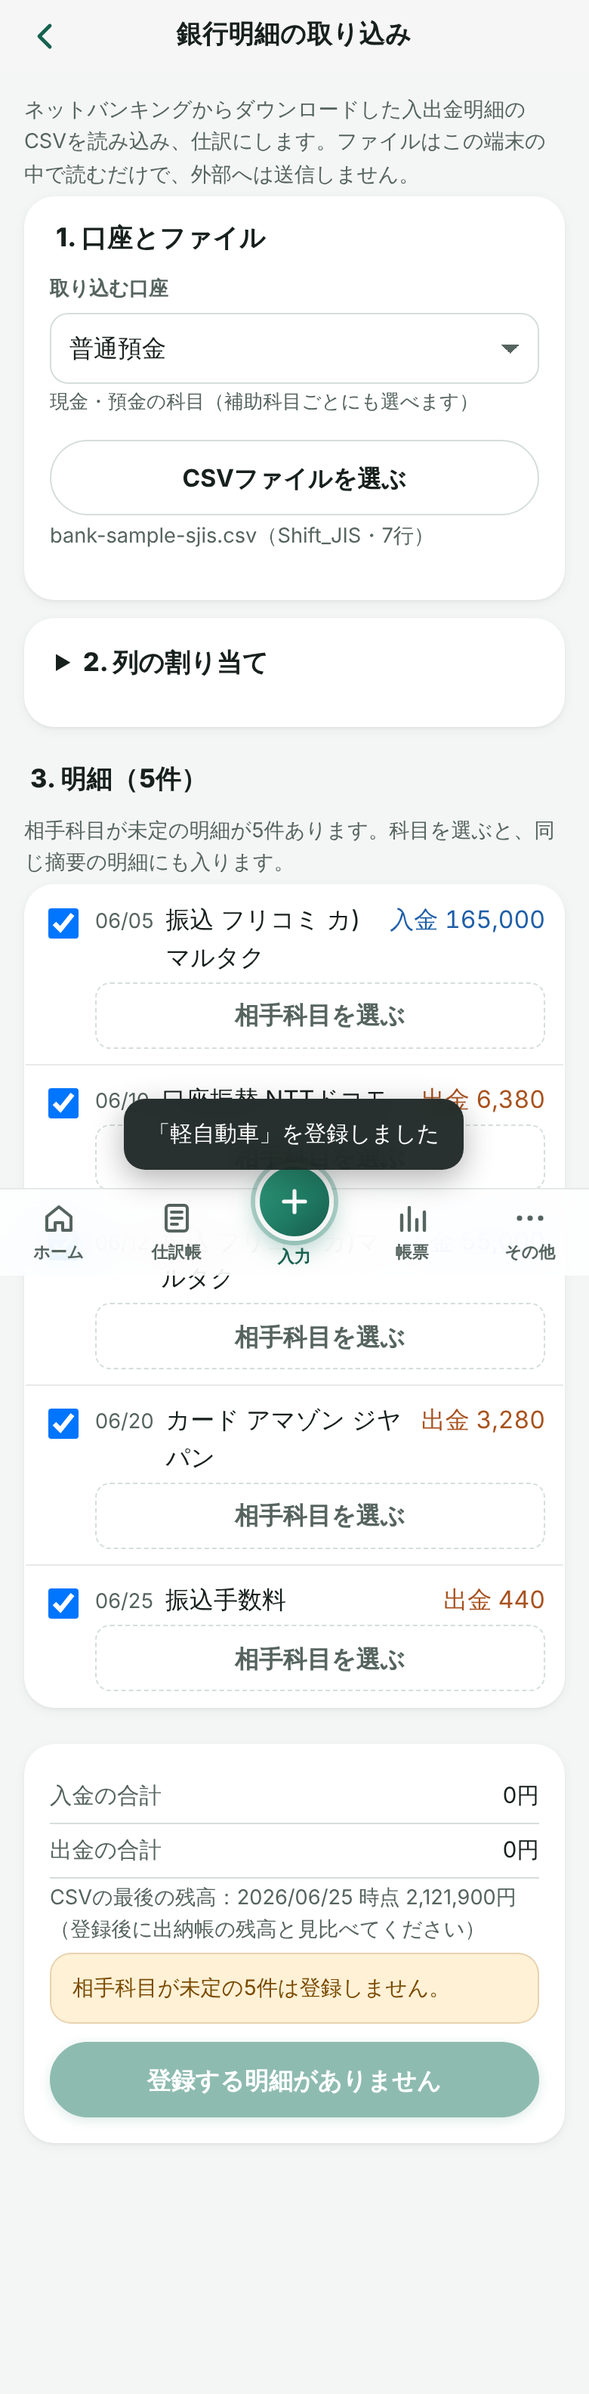
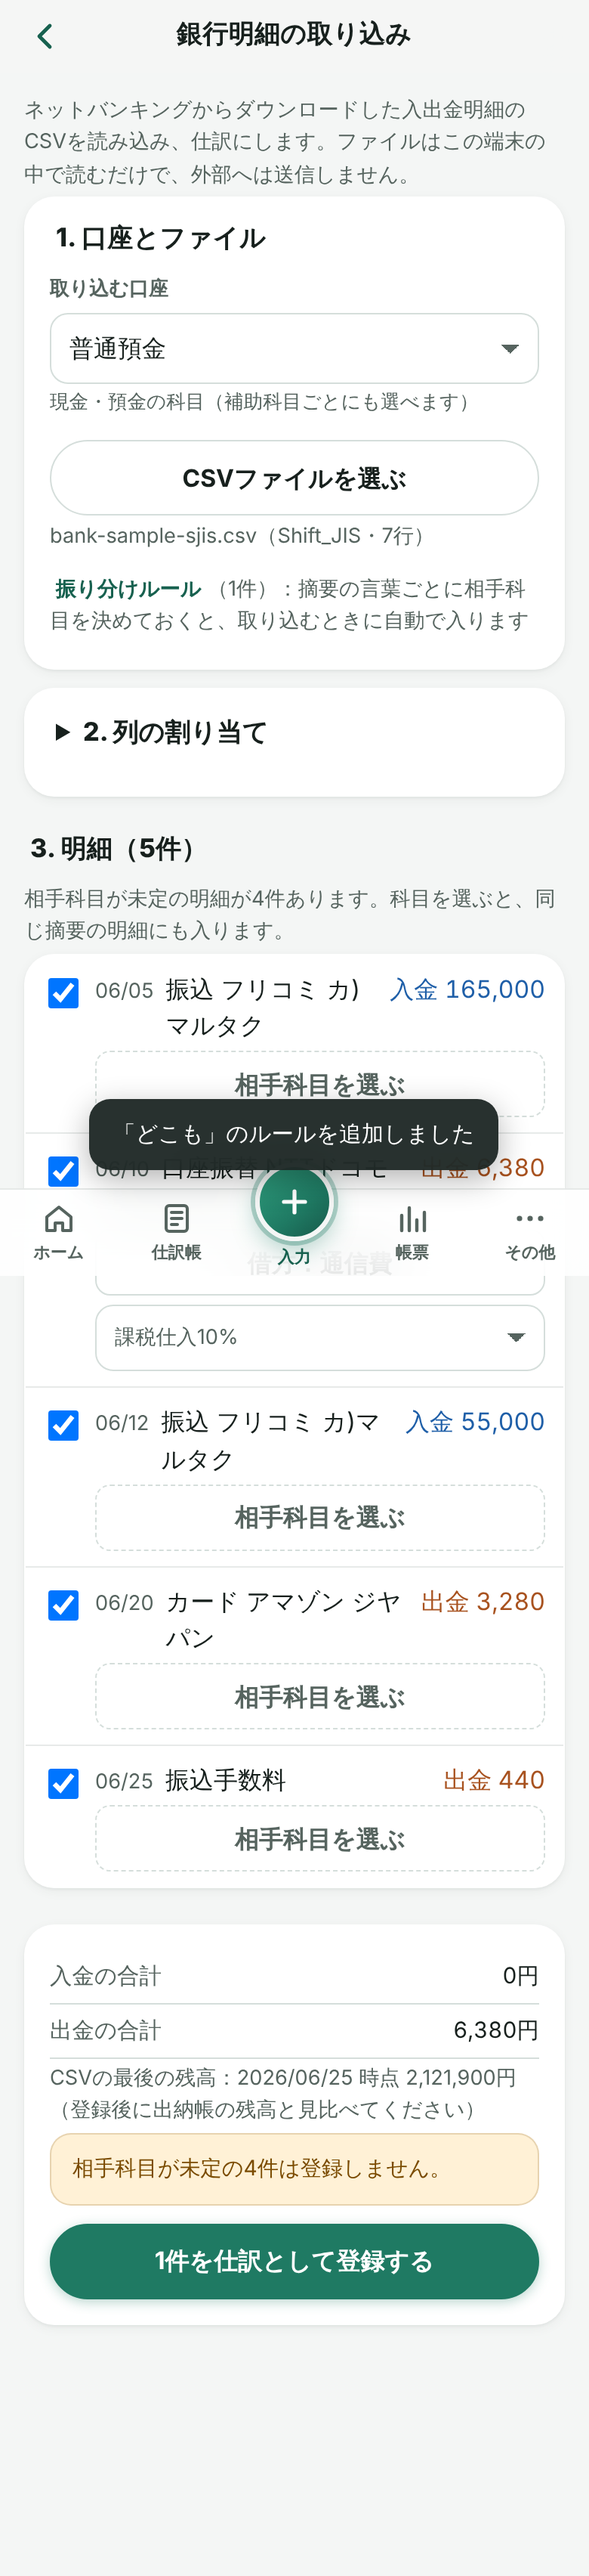
銀行明細の振り分けルールを登録・編集できるようにする
摘要の言葉ごとに相手科目・税区分を決めておき、取り込み時に過去の仕訳より優先して入れる。
設定（bankRules）に保存し、バックアップにも入る。v0.12.0、sw v15。

Claude-Session: https://claude.ai/code/session_01S9p1vVb4QL9kWcCign3X9X

diff --git a/js/views/bank-rules.js b/js/views/bank-rules.js
@@ -1,0 +1,144 @@
+// 銀行明細の振り分けルール：摘要にこの言葉を含む明細は、この相手科目にする（取り込みのときに過去の仕訳より優先）
+import { h, put, field, segmented, showErrors, showToast, confirmDialog, emptyState } from '../ui.js';
+import { RULE_DIRECTIONS, validateRule } from '../bank-import.js';
+import { isCashAccount } from '../quick.js';
+import { TAX_CATEGORIES, TAX_BY_CODE } from '../tax.js';
+import { ValidationError } from '../db.js';
+import { errorText } from '../errors.js';
+import { pickAccount } from './account-picker.js';
+
+const DIRECTION_LABEL = Object.fromEntries(RULE_DIRECTIONS.map((d) => [d.id, d.label]));
+
+export async function render({ app, outlet }) {
+  const { settings, accounts, subAccounts, accountById, subById } = await app.load();
+  let rules = [...(settings.bankRules || [])];
+  const candidates = accounts.filter((a) => !isCashAccount(a));
+  const blank = () => ({ id: null, keyword: '', direction: 'out', accountId: '', subAccountId: null, taxCategory: 'none' });
+  let draft = blank();
+
+  const listEl = h('div');
+  const formEl = h('section', { class: 'panel' });
+
+  function paintList() {
+    put(
+      listEl,
+      h('h2', { class: 'section-title', text: `登録済みのルール（${rules.length}件）` }),
+      rules.length
+        ? h(
+            'ul',
+            { class: 'menu-group' },
+            rules.map((r) => {
+              const acc = accountById.get(r.accountId);
+              const sub = r.subAccountId ? subById.get(r.subAccountId) : null;
+              return h(
+                'li',
+                { class: 'rule-row' },
+                h(
+                  'button',
+                  { type: 'button', class: 'rule-main', 'aria-label': `「${r.keyword}」のルールを編集`, onclick: () => edit(r) },
+                  h('span', { class: 'rule-kw', text: `「${r.keyword}」` }),
+                  h('span', { class: 'rule-acc', text: acc ? `${acc.name}${sub ? `／${sub.name}` : ''}` : '（科目が見つかりません）' }),
+                  h('span', { class: 'muted small', text: `${DIRECTION_LABEL[r.direction] || ''}の明細・${TAX_BY_CODE[r.taxCategory]?.label ?? ''}${acc && !acc.active ? '・科目が無効のため使いません' : ''}` }),
+                ),
+                h('button', { type: 'button', class: 'btn btn-small btn-danger-text', text: '削除', onclick: () => remove(r) }),
+              );
+            }),
+          )
+        : emptyState('まだルールがありません。上の欄から登録してください。'),
+      h('p', { class: 'muted small', text: '摘要に複数のルールの言葉が含まれるときは、言葉の長いルールを使います。ルールに当てはまらない明細は、これまでどおり過去の仕訳の摘要から候補を出します。' }),
+    );
+  }
+
+  function paintForm() {
+    const keyword = h('input', { id: 'rule-keyword', type: 'text', maxlength: 30, value: draft.keyword, placeholder: '例：アマゾン、NTT、デンキ', oninput: (e) => (draft.keyword = e.target.value) });
+    const acc = accountById.get(draft.accountId);
+    const subs = acc ? subAccounts.filter((x) => x.accountId === acc.id && x.active) : [];
+    put(
+      formEl,
+      h('h2', { class: 'section-title', text: draft.id ? 'ルールの編集' : 'ルールの追加' }),
+      h(
+        'form',
+        { novalidate: true, onsubmit: (e) => (e.preventDefault(), save(e.target)) },
+        field('摘要に含まれる言葉', keyword, { name: 'keyword', hint: '銀行の明細の表記（カタカナ・英字など）に合わせます。ひらがな・カタカナ、全角・半角の違いは区別しません' }),
+        field(
+          '入金・出金',
+          segmented({ name: '入金・出金', options: RULE_DIRECTIONS.map((d) => ({ value: d.id, label: d.label })), value: draft.direction, onChange: (v) => (draft.direction = v) }),
+          { name: 'direction' },
+        ),
+        field(
+          '相手科目',
+          h('button', {
+            type: 'button',
+            id: 'rule-account',
+            class: `btn acc-btn btn-block ${acc ? '' : 'is-empty'}`,
+            text: acc ? `${acc.code} ${acc.name}` : '相手科目を選ぶ',
+            onclick: async () => {
+              const id = await pickAccount({ accounts: candidates, entityType: settings.entityType, currentId: draft.accountId, title: '相手科目を選ぶ' });
+              if (!id) return;
+              draft = { ...draft, accountId: id, subAccountId: null, taxCategory: accountById.get(id).defaultTaxCategory };
+              paintForm();
+            },
+          }),
+          { name: 'accountId' },
+        ),
+        subs.length
+          ? field(
+              '補助科目',
+              h('select', { id: 'rule-sub', onchange: (e) => (draft.subAccountId = e.target.value || null) }, h('option', { value: '', text: '補助なし' }), subs.map((x) => h('option', { value: x.id, text: x.name, selected: x.id === draft.subAccountId }))),
+              { name: 'subAccountId' },
+            )
+          : null,
+        field(
+          '税区分',
+          h('select', { id: 'rule-tax', onchange: (e) => (draft.taxCategory = e.target.value) }, TAX_CATEGORIES.map((t) => h('option', { value: t.code, text: t.label, selected: t.code === draft.taxCategory }))),
+          { name: 'taxCategory' },
+        ),
+        h('div', { class: 'actions' }, draft.id ? h('button', { type: 'button', class: 'btn', text: 'やめる', onclick: () => ((draft = blank()), paintForm()) }) : null, h('button', { type: 'submit', class: 'btn btn-primary', text: draft.id ? '保存する' : '追加する' })),
+      ),
+    );
+  }
+
+  function edit(r) {
+    draft = { ...r };
+    paintForm();
+    formEl.scrollIntoView({ behavior: 'smooth', block: 'start' });
+  }
+
+  async function persist(next, message) {
+    try {
+      const saved = await app.db.saveBankRules(next);
+      rules = saved.bankRules;
+      showToast(message);
+      return true;
+    } catch (e) {
+      showToast(e instanceof ValidationError ? (Array.isArray(e.errors) ? e.errors[0] : Object.values(e.errors)[0]) : errorText(e, '保存'));
+      return false;
+    }
+  }
+
+  async function save(form) {
+    const rule = { ...draft, keyword: draft.keyword.trim() };
+    const errors = validateRule(rule, { accounts, subAccounts, isBankAccount: (id) => isCashAccount(accountById.get(id)) });
+    if (Object.keys(errors).length) return showErrors(form, errors);
+    const next = rule.id ? rules.map((r) => (r.id === rule.id ? rule : r)) : [...rules, rule];
+    if (await persist(next, rule.id ? 'ルールを保存しました' : `「${rule.keyword}」のルールを追加しました`)) {
+      draft = blank();
+      paintForm();
+      paintList();
+    }
+  }
+
+  async function remove(r) {
+    const ok = await confirmDialog({ title: 'ルールを削除しますか', message: `「${r.keyword}」のルールを削除します。登録済みの仕訳は変わりません。`, buttons: [{ label: 'やめる', value: false }, { label: '削除する', value: true, variant: 'danger' }] });
+    if (!ok) return;
+    if (await persist(rules.filter((x) => x.id !== r.id), 'ルールを削除しました')) {
+      if (draft.id === r.id) draft = blank();
+      paintForm();
+      paintList();
+    }
+  }
+
+  put(outlet, h('p', { class: 'muted small', text: '銀行明細のCSVを取り込むとき、摘要にここで登録した言葉を含む明細には、決めておいた相手科目と税区分を自動で入れます。' }), formEl, listEl);
+  paintForm();
+  paintList();
+}

diff --git a/js/views/bank-import.js b/js/views/bank-import.js
@@ -9,6 +9,7 @@ import {
   balanceMismatches,
   buildCounterIndex,
   suggestCounter,
+  matchRule,
   markDuplicates,
   importLines,
   headerSignature,
@@ -53,10 +54,11 @@ export async function render({ app, outlet, query }) {
     if (recentIds.length >= 12) break;
   }
   const index = buildCounterIndex(journals, (id) => isCashAccount(accountById.get(id)));
+  const rules = settings.bankRules || [];
 
   let file = null; // { name, encoding, rows, signature }
   let mapping = null;
-  let items = []; // { tx, include, counter: {accountId, subAccountId, taxCategory}|null, duplicate, outside, suggested }
+  let items = []; // { tx, include, counter: {accountId, subAccountId, taxCategory}|null, duplicate, outside, source }  source：候補の出どころ（ルール・過去の仕訳）
 
   const accSelect = h(
     'select',
@@ -91,9 +93,12 @@ export async function render({ app, outlet, query }) {
     items = txs.map((tx, i) => {
       const prev = before.get(tx.row);
       const outside = !isInPeriod(tx.date, period);
-      const suggested = prev ? prev.suggested : suggestCounter(tx.memo, index);
-      const counter = prev?.counter ?? (suggested ? { ...suggested } : null);
-      return { tx, duplicate: dup[i], outside, suggested: Boolean(suggested), counter, include: prev ? prev.include : !dup[i] && !outside && !tx.error };
+      // 相手科目の候補：振り分けルール → 過去の仕訳の摘要
+      const ruled = prev ? null : matchRule(tx, rules, { accounts });
+      const learned = prev || ruled ? null : suggestCounter(tx.memo, index);
+      const source = prev ? prev.source : ruled ? `ルール「${ruled.rule.keyword}」` : learned ? '過去の仕訳から' : null;
+      const counter = prev?.counter ?? (ruled ? ruled.counter : learned ? { ...learned } : null);
+      return { tx, duplicate: dup[i], outside, source, counter, include: prev ? prev.include : !dup[i] && !outside && !tx.error };
     });
     paintMapping();
     paintList();
@@ -140,6 +145,7 @@ export async function render({ app, outlet, query }) {
   function setCounter(item, accountId) {
     const acc = accountById.get(accountId);
     item.counter = { accountId, subAccountId: null, taxCategory: acc.defaultTaxCategory };
+    item.source = null;
     item.include = !item.tx.error && !item.outside;
     // 同じ摘要で相手科目が未定の明細にも同じ科目を入れる
     const key = normalize(item.tx.memo);
@@ -180,7 +186,7 @@ export async function render({ app, outlet, query }) {
           tx.error ? h('span', { class: 'badge badge-warn', text: tx.error }) : null,
           item.outside ? h('span', { class: 'badge badge-warn', text: '会計期間外' }) : null,
           item.duplicate ? h('span', { class: 'badge badge-warn', text: '登録済みかも' }) : null,
-          item.suggested && item.counter ? h('span', { class: 'badge', text: '過去の仕訳から' }) : null,
+          item.source && item.counter ? h('span', { class: 'badge', text: item.source }) : null,
         ),
         disabled
           ? null
@@ -283,6 +289,7 @@ export async function render({ app, outlet, query }) {
       h('h2', { class: 'section-title', text: '1. 口座とファイル' }),
       options.length ? field('取り込む口座', accSelect, { hint: '現金・預金の科目（補助科目ごとにも選べます）' }) : h('p', { class: 'notice', text: '現金・預金の科目がありません' }),
       h('div', { class: 'field' }, h('label', { class: 'btn btn-block', for: 'bi-file', text: 'CSVファイルを選ぶ' }), fileInput, fileLabel),
+      h('p', { class: 'small' }, h('a', { class: 'link', href: '#/import/bank/rules', text: '振り分けルール' }), h('span', { class: 'muted', text: `（${rules.length}件）：摘要の言葉ごとに相手科目を決めておくと、取り込むときに自動で入ります` })),
     ),
     mappingEl,
     listEl,

diff --git a/js/bank-import.js b/js/bank-import.js
@@ -1,6 +1,7 @@
 // 銀行明細CSVの取り込み（純粋関数）
 // 銀行ごとに形式が違うため、見出しの言葉から列を推定し、利用者が直せるようにする。
 // 1行の明細を「口座 ⇔ 相手科目」の2行の仕訳にする。金額は整数の円
+import { TAX_BY_CODE } from './tax.js';
 import { parseYen } from './money.js';
 import { normalize } from './search.js';
 import { isValidDate } from './period.js';
@@ -241,6 +242,51 @@ export function suggestCounter(memo, index) {
     if (k.length >= 3 && key.includes(k) && (!best || k.length > best.k.length)) best = { k, v };
   }
   return best ? best.v : null;
+}
+
+/** 振り分けルールの入出金の向き */
+export const RULE_DIRECTIONS = [
+  { id: 'any', label: '入金・出金' },
+  { id: 'in', label: '入金' },
+  { id: 'out', label: '出金' },
+];
+
+/**
+ * 振り分けルール（摘要にこの言葉を含む明細は、この相手科目にする）の検証
+ * @param {{ keyword, direction, accountId, subAccountId?, taxCategory }} rule
+ * @returns {Object<string,string>} 欄ごとのエラー（空なら正しい）
+ */
+export function validateRule(rule, { accounts, subAccounts = [], isBankAccount = () => false }) {
+  const e = {};
+  const kw = normalize(rule.keyword);
+  if (!kw) e.keyword = '摘要に含まれる言葉を入力してください';
+  else if (kw.length > 30) e.keyword = '言葉は30文字以内にしてください';
+  if (!RULE_DIRECTIONS.some((d) => d.id === rule.direction)) e.direction = '入金・出金の向きを選んでください';
+  const acc = accounts.find((a) => a.id === rule.accountId);
+  if (!acc) e.accountId = '相手科目を選んでください';
+  else if (isBankAccount(acc.id)) e.accountId = '現金・預金の科目は相手科目にできません';
+  if (rule.subAccountId && !subAccounts.some((x) => x.id === rule.subAccountId && x.accountId === rule.accountId)) e.subAccountId = '補助科目が正しくありません';
+  if (!TAX_BY_CODE[rule.taxCategory]) e.taxCategory = '税区分を選んでください';
+  return e;
+}
+
+/**
+ * 明細に当てはまる振り分けルールを探す。摘要が言葉を含み、向きが合うもののうち、言葉が長いもの（同じ長さなら先に登録したもの）
+ * 科目が無効・削除済みのルールは使わない
+ * @returns {{ rule, counter: { accountId, subAccountId, taxCategory } } | null}
+ */
+export function matchRule(tx, rules, { accounts }) {
+  const memo = normalize(tx.memo);
+  if (!memo || !Array.isArray(rules)) return null;
+  let best = null;
+  for (const rule of rules) {
+    const kw = normalize(rule.keyword);
+    if (!kw || !memo.includes(kw)) continue;
+    if ((rule.direction === 'in' && tx.amount < 0) || (rule.direction === 'out' && tx.amount > 0)) continue;
+    if (!accounts.some((a) => a.id === rule.accountId && a.active)) continue;
+    if (!best || kw.length > normalize(best.keyword).length) best = rule;
+  }
+  return best ? { rule: best, counter: { accountId: best.accountId, subAccountId: best.subAccountId || null, taxCategory: best.taxCategory } } : null;
 }
 
 /**

diff --git a/js/db.js b/js/db.js
@@ -1,4 +1,6 @@
 // IndexedDB 操作。データの読み書きは必ずこの Repository を通す（将来の同期処理を差し込む場所を1か所にするため）
+import { validateRule } from './bank-import.js';
+import { isCashAccount } from './quick.js';
 import { validateJournal } from './journal.js';
 import { validateAccount, isBsGroup, findByRole, fillHints, REQUIRED_ROLES } from './accounts.js';
 import { validatePeriod, addDays } from './period.js';
@@ -250,6 +252,27 @@ export class Repository {
       if (patch.entityType && patch.entityType !== cur.entityType) throw new ValidationError(['個人/法人は変更できません']);
       const next = { ...cur, ...patch, entityType: cur.entityType, updatedAt: now() };
       if (!String(next.businessName || '').trim()) throw new ValidationError({ businessName: '事業者名を入力してください' });
+      meta.put({ key: 'settings', value: next });
+      return next;
+    });
+  }
+
+  /**
+   * 銀行明細の振り分けルールを保存する（設定の bankRules。バックアップにも入る）
+   * @param {Array<{ id, keyword, direction, accountId, subAccountId?, taxCategory }>} rules
+   */
+  saveBankRules(rules) {
+    return this.run(['meta', 'accounts', 'subAccounts'], 'readwrite', async (tx) => {
+      const meta = tx.objectStore('meta');
+      const cur = (await req(meta.get('settings')))?.value;
+      if (!cur) throw new Error('初期設定がされていません');
+      const [accounts, subAccounts] = await Promise.all([req(tx.objectStore('accounts').getAll()), req(tx.objectStore('subAccounts').getAll())]);
+      const isBank = (id) => isCashAccount(accounts.find((a) => a.id === id));
+      const errors = rules.flatMap((r, i) => Object.values(validateRule(r, { accounts, subAccounts, isBankAccount: isBank })).map((m) => `${i + 1}件目：${m}`));
+      if (errors.length) throw new ValidationError(errors);
+      const at = now();
+      const bankRules = rules.map((r) => ({ id: r.id || newId(), keyword: String(r.keyword).trim(), direction: r.direction, accountId: r.accountId, subAccountId: r.subAccountId || null, taxCategory: r.taxCategory }));
+      const next = { ...cur, bankRules, updatedAt: at };
       meta.put({ key: 'settings', value: next });
       return next;
     });

diff --git a/js/app.js b/js/app.js
@@ -13,6 +13,7 @@ import * as entryView from './views/entry.js';
 import * as quickEntryView from './views/quick-entry.js';
 import * as cashbookView from './views/cashbook.js';
 import * as bankImportView from './views/bank-import.js';
+import * as bankRulesView from './views/bank-rules.js';
 import * as reportsView from './views/reports.js';
 import * as ledgerView from './views/ledger.js';
 import * as trialView from './views/trial.js';
@@ -41,6 +42,7 @@ const routes = [
   { path: '/quick/:kind', view: quickEntryView, title: 'かんたん入力', tab: 'entry', back: '#/entry' },
   { path: '/cashbook', view: cashbookView, title: '出納帳', tab: 'entry', back: '#/entry', print: true },
   { path: '/import/bank', view: bankImportView, title: '銀行明細の取り込み', tab: 'entry', back: '#/entry' },
+  { path: '/import/bank/rules', view: bankRulesView, title: '振り分けルール', tab: 'entry', back: '#/import/bank' },
   { path: '/journal/new', view: journalFormView, title: '振替伝票の入力', tab: 'entry', back: '#/entry' },
   { path: '/journal/:id/edit', view: journalFormView, title: '仕訳の編集', tab: 'journals', back: '#/journals' },
   { path: '/reports', view: reportsView, title: '帳票', tab: 'reports' },

diff --git a/css/style.css b/css/style.css
@@ -414,6 +414,12 @@ input:focus, select:focus, textarea:focus { outline: none; border-color: var(--p
 .acc-title { font-weight: 700; }
 .acc-tags { display: flex; flex-wrap: wrap; gap: 4px 8px; align-items: center; }
 .acc-row.asset-row, .acc-row.asset-plain { grid-template-columns: 1fr; }
+/* 振り分けルール */
+.rule-row { display: flex; align-items: center; gap: 8px; padding: 6px 12px 6px 0; }
+.menu-group li.rule-row + li.rule-row { border-top: 1px solid var(--separator); }
+.rule-main { flex: 1; min-width: 0; display: grid; gap: 2px; text-align: left; padding: 8px 4px 8px 16px; border: 0; background: none; color: inherit; font: inherit; }
+.rule-kw { font-weight: 700; overflow-wrap: anywhere; }
+.rule-acc { font-size: 0.9rem; }
 .carry-box { border: 1px solid var(--border); border-radius: var(--radius); padding: var(--sp-2) var(--sp-3) 0; margin: 0 0 var(--sp-4); }
 .carry-box[hidden] { display: none; }
 .carry-box legend { padding: 0 6px; font-size: var(--fs-footnote); font-weight: 700; color: var(--muted); }

diff --git a/test/db.test.js b/test/db.test.js
@@ -234,3 +234,15 @@ test('固定資産：検証して保存、法人は事業割合100%、削除は 
   assert.ok(dump.tombstones.some((t) => t.store === 'assets' && t.id === a.id));
   repo.close();
 });
+
+test('振り分けルール：設定に保存し、不正なルールは保存しない', async () => {
+  const { repo, byName } = await setupRepo();
+  const rule = { keyword: ' NTT ', direction: 'out', accountId: byName['通信費'].id, subAccountId: null, taxCategory: 'purchase_10' };
+  const saved = await repo.saveBankRules([rule]);
+  assert.equal(saved.bankRules.length, 1);
+  assert.equal(saved.bankRules[0].keyword, 'NTT');
+  assert.ok(saved.bankRules[0].id);
+  assert.deepEqual((await repo.getSettings()).bankRules, saved.bankRules);
+  await assert.rejects(repo.saveBankRules([rule, { ...rule, accountId: byName['現金'].id }]), (e) => e instanceof ValidationError && /2件目/.test(e.errors[0]));
+  assert.equal((await repo.getSettings()).bankRules.length, 1);
+});

diff --git a/js/backup.js b/js/backup.js
@@ -72,6 +72,10 @@ export function parseBackup(text) {
   if (!isObj(s) || !isStr(s.businessName) || !['individual', 'corporation'].includes(s.entityType) || !['taxable', 'exempt'].includes(s.taxStatus)) {
     throw new BackupError('事業者の設定が不正です');
   }
+  // 銀行明細の振り分けルール（v0.12.0 で追加。無いファイルはルールなし）。科目が無いルールは使うときに無視する
+  if (s.bankRules !== undefined && (!Array.isArray(s.bankRules) || s.bankRules.some((r) => !isObj(r) || !isStr(r.id) || !isStr(r.keyword) || !isStr(r.accountId)))) {
+    throw new BackupError('振り分けルールのデータが不正です');
+  }
   const bad = (what) => {
     throw new BackupError(`${what}のデータが不正です`);
   };

diff --git a/sw.js b/sw.js
@@ -1,6 +1,6 @@
 // Service Worker
 // ファイルを変更したら CACHE_VERSION を上げる。ファイルを追加・削除したら PRECACHE_URLS も更新する（npm run check で検出）
-const CACHE_VERSION = 'v14';
+const CACHE_VERSION = 'v15';
 const CACHE_NAME = `pocket-kaikei-${CACHE_VERSION}`;
 
 // 事前にキャッシュするファイル（相対パス）
@@ -51,6 +51,7 @@ const PRECACHE_URLS = [
   'js/views/quick-entry.js',
   'js/views/cashbook.js',
   'js/views/bank-import.js',
+  'js/views/bank-rules.js',
   'js/views/monthly.js',
   'js/views/period-common.js',
   'js/views/periods.js',

diff --git a/js/version.js b/js/version.js
@@ -1,2 +1,2 @@
 // 利用者に見せるバージョン。リリースのたびに上げる
-export const APP_VERSION = '0.11.0';
+export const APP_VERSION = '0.12.0';
